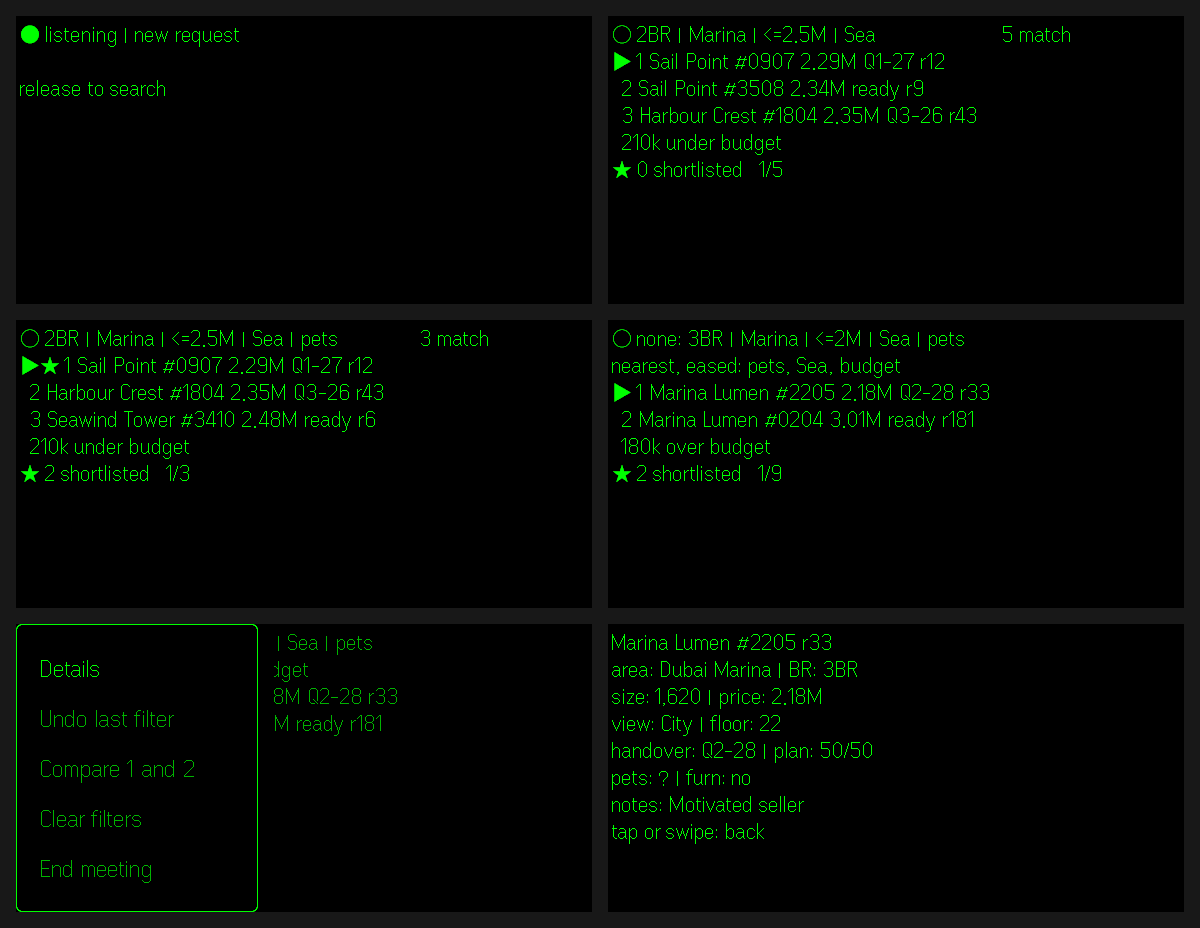
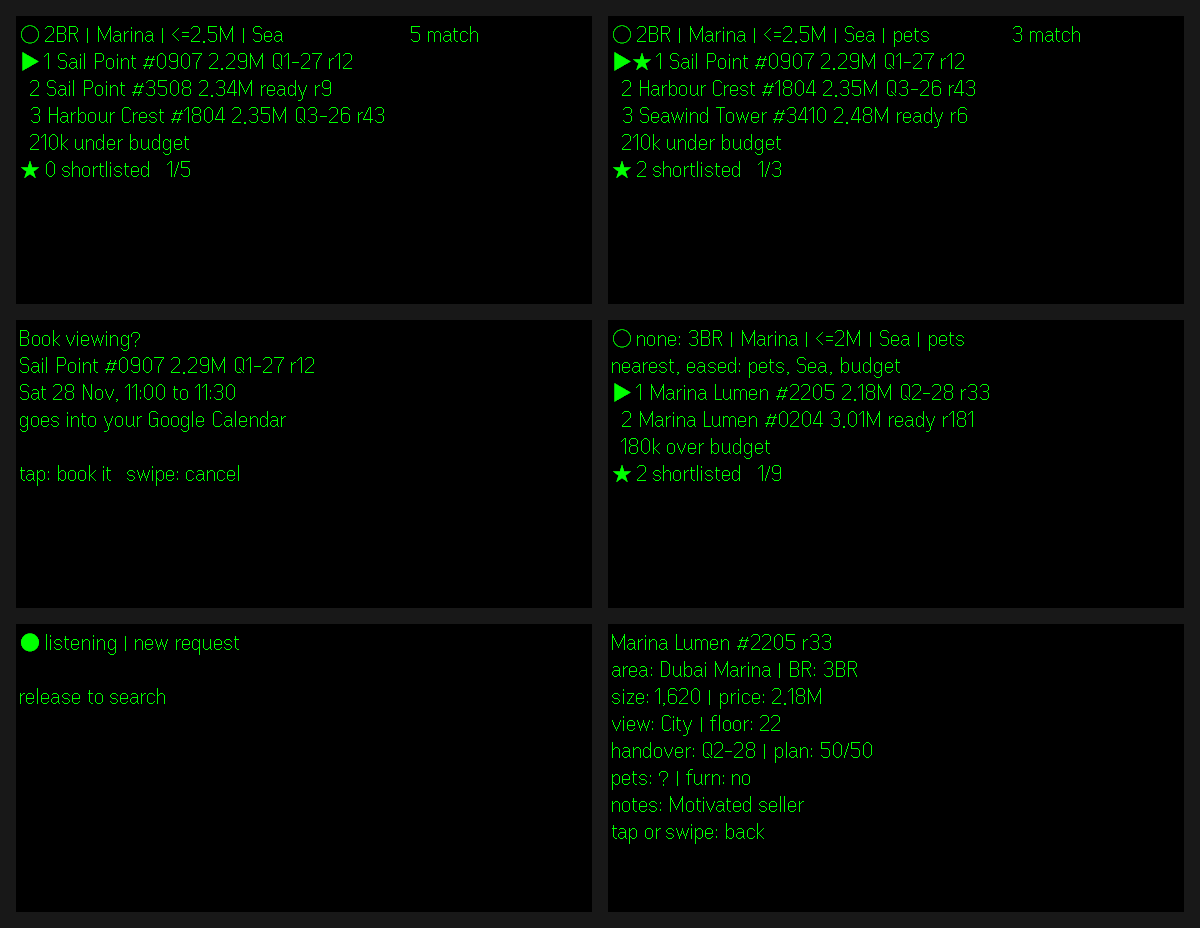
Add the booking to the demo script and refresh the captures
The scripted client now books a viewing after asking for pets, and the README shows the confirm screen plus the real Calendar and Showroom runs.

diff --git a/app/src/replay.ts b/app/src/replay.ts
@@ -8,6 +8,7 @@ export const SCRIPTS: Record<string, { sheet: string; lines: string[] }> = {
     lines: [
       'Two-bed in Marina, under two and a half, sea view',
       'Actually, it has to allow pets',
+      'Book a viewing for number 1 on Saturday at 11',
       'What about three bed under two?',
       'Forget the view',
       'Start over. Studio in JVC under 700k, ready to move in',

diff --git a/README.md b/README.md
@@ -4,9 +4,9 @@ Onhand puts your Google Sheet on Even Realities G2 glasses during a client meeti
 
 Built for the Even Realities G2 "Heads Up" hackathon, track AI Assistants & Work.
 
-![Six lens screens from the Even Hub simulator: listening, results, results after "it has to allow pets", nearest match when nothing fits, the contextual menu, and row details](docs/lens.png)
+![Six lens screens from the Even Hub simulator: results, results after "it has to allow pets" with two rows shortlisted, the booking confirm screen, nearest match when nothing fits, listening, and row details](docs/lens.png)
 
-*Captured from the Even Hub simulator 0.9.5 during a scripted meeting. Left to right, top to bottom: listening, first results, after "it has to allow pets" with two rows shortlisted, a request with no exact match, the ring menu, row details.*
+*Captured from the Even Hub simulator 0.9.5 during a scripted meeting. Left to right, top to bottom: first results, after "it has to allow pets" with two rows shortlisted, "book a viewing for number 1 on Saturday at 11", a request with no exact match, listening, row details.*
 
 ## The problem
 
@@ -76,6 +76,8 @@ All numbers come from scripts in this repo.
 | Claude fallback on 2 requests the sheet cannot answer | correct notes in 1.7 to 3.9 s | server log |
 | Sheet bridge against a stand-in script: read tab, lead row, draft text, wrong token | 4 of 4 | `npm test` (server/test/live.test.ts) |
 | Real Google Sheet: 250 units read, 2 requests, 2 rows shortlisted, End meeting | Leads row 2 written with rows r12 and r43, Gmail draft created, about 15 s with a cold Apps Script | manual run, Nov 26 |
+| Real Google Calendar: "book a viewing for number 2 on Saturday at 11", tap | Event "Viewing: Harbour Crest #1804" on Sat 28 Nov 11:00 to 11:30, Leads row 3 records the booking | manual run, Nov 26 |
+| Real Google Sheet with a tab Onhand had no schema for (Showroom) | 12 rows read, "a grey sofa under 4000 that is in stock" returns the one match | manual run, Nov 26 |
 
 The held-out set is no longer unseen after those fixes, so the 15 of 20 is the honest number for new phrasing.
 
@@ -132,7 +134,7 @@ npm run check:speech -- dubai-units clip.wav   # 16 kHz mono 16-bit WAV
 ## Deploy
 
 - **Server:** `render.yaml` is a Render blueprint for the free plan. Create a Blueprint from this repo and set `DEEPGRAM_API_KEY`, `ANTHROPIC_API_KEY`, `SHEET_SCRIPT_URL` and `SHEET_SCRIPT_TOKEN` in the dashboard. The free plan sleeps after 15 minutes idle and takes about 50 s to wake, so open `/health` before a meeting.
-- **App:** `npm run pack -w app` builds `app/out.ehpk` (about 67 KB) for Even Hub. The production build talks to `https://onhand-g2.onrender.com`, set in `app/.env.production`, and `app/app.json` whitelists that origin for HTTPS and WebSocket.
+- **App:** `npm run pack -w app` builds `app/out.ehpk` (about 70 KB) for Even Hub. The production build talks to `https://onhand-g2.onrender.com`, set in `app/.env.production`, and `app/app.json` whitelists that origin for HTTPS and WebSocket.
 
 ## Layout
 
